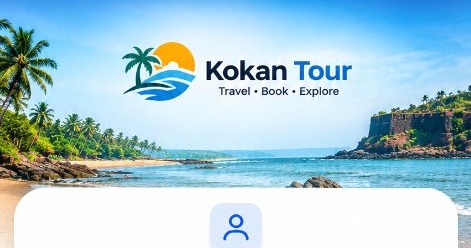
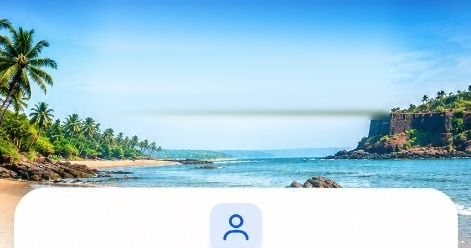
fix(mobile): remove background image text collision and enhance header typography contrast

Changed region(s): [[0.2378, 0.0, 0.8323, 0.4798]]

diff --git a/frontend-web/src/components/passenger/PassengerDashboardMobile.tsx b/frontend-web/src/components/passenger/PassengerDashboardMobile.tsx
@@ -190,17 +190,17 @@ export default function PassengerDashboardMobile({
         <div className="flex flex-col w-full animate-fadeIn">
           {/* ── TOP SCENIC KOKAN LANDSCAPE & BRAND HEADER ──────────────────── */}
           <div className="relative w-full h-[220px] sm:h-[240px] shrink-0 overflow-hidden">
-            {/* Scenic Kokan Beach Landscape Background */}
+            {/* Scenic Kokan Beach Landscape Background (Clean Sky without logo collisions) */}
             <div
               className="absolute inset-0 bg-cover bg-center"
               style={{
-                backgroundImage: `url('/images/kokan-mobile-header.jpg')`,
+                backgroundImage: `url('/images/kokan-dashboard-bg.jpg')`,
                 backgroundPosition: 'center 35%',
               }}
             />
 
-            {/* Subtle top/bottom gradient overlay for crystal clear contrast */}
-            <div className="absolute inset-0 bg-gradient-to-b from-black/25 via-transparent to-black/35 pointer-events-none" />
+            {/* Rich multi-stop gradient overlay for maximum readability & high contrast */}
+            <div className="absolute inset-0 bg-gradient-to-b from-slate-950/60 via-slate-900/35 to-black/55 pointer-events-none" />
 
             {/* Top Bar: Brand Logo & Sign In / User Profile */}
             <div className="relative z-10 flex items-center justify-between px-4 pt-3.5">
@@ -210,10 +210,10 @@ export default function PassengerDashboardMobile({
                   <BusFront className="w-5 h-5 text-[#1D68F2] stroke-[2.2]" />
                 </div>
                 <div>
-                  <h1 className="text-[19px] sm:text-xl font-bold text-white tracking-tight leading-none drop-shadow-md">
+                  <h1 className="text-[19px] sm:text-xl font-bold text-white tracking-tight leading-none drop-shadow-[0_2px_4px_rgba(0,0,0,0.8)]">
                     Kokan Travel
                   </h1>
-                  <p className="text-[11px] text-white/95 font-medium tracking-wide mt-1 drop-shadow-xs">
+                  <p className="text-[11px] text-white/95 font-medium tracking-wide mt-1 drop-shadow-[0_1px_3px_rgba(0,0,0,0.8)]">
                     Intercity Rides Across Maharashtra
                   </p>
                 </div>
@@ -223,7 +223,7 @@ export default function PassengerDashboardMobile({
               {user ? (
                 <Link
                   href="/dashboard/profile"
-                  className="flex items-center gap-1.5 px-3 py-1.5 rounded-full bg-white text-[#1D68F2] font-semibold text-xs shadow-md active:scale-95 transition-transform shrink-0"
+                  className="flex items-center gap-1.5 px-3.5 py-1.5 rounded-full bg-white text-[#1D68F2] font-semibold text-xs shadow-md active:scale-95 transition-transform shrink-0"
                 >
                   <User className="w-3.5 h-3.5 stroke-[2]" />
                   <span>{user.firstName || 'Profile'}</span>
@@ -241,11 +241,11 @@ export default function PassengerDashboardMobile({
 
             {/* Hero Title & Subtitle: "Where to? 👋" */}
             <div className="relative z-10 px-4 pt-4 pb-8">
-              <h2 className="text-[26px] sm:text-3xl font-extrabold text-white tracking-tight flex items-center gap-2 drop-shadow-md leading-tight">
+              <h2 className="text-[26px] sm:text-3xl font-extrabold text-white tracking-tight flex items-center gap-2 drop-shadow-[0_2px_6px_rgba(0,0,0,0.9)] leading-tight">
                 <span>{user?.firstName ? `Where to, ${user.firstName}?` : 'Where to?'}</span>
                 <span>👋</span>
               </h2>
-              <p className="text-xs sm:text-[13px] text-white/95 font-medium mt-1 drop-shadow-sm max-w-[290px] leading-snug">
+              <p className="text-xs sm:text-[13px] text-white/95 font-medium mt-1 drop-shadow-[0_1px_4px_rgba(0,0,0,0.9)] max-w-[290px] leading-snug">
                 Search and compare intercity rides across Maharashtra
               </p>
             </div>
